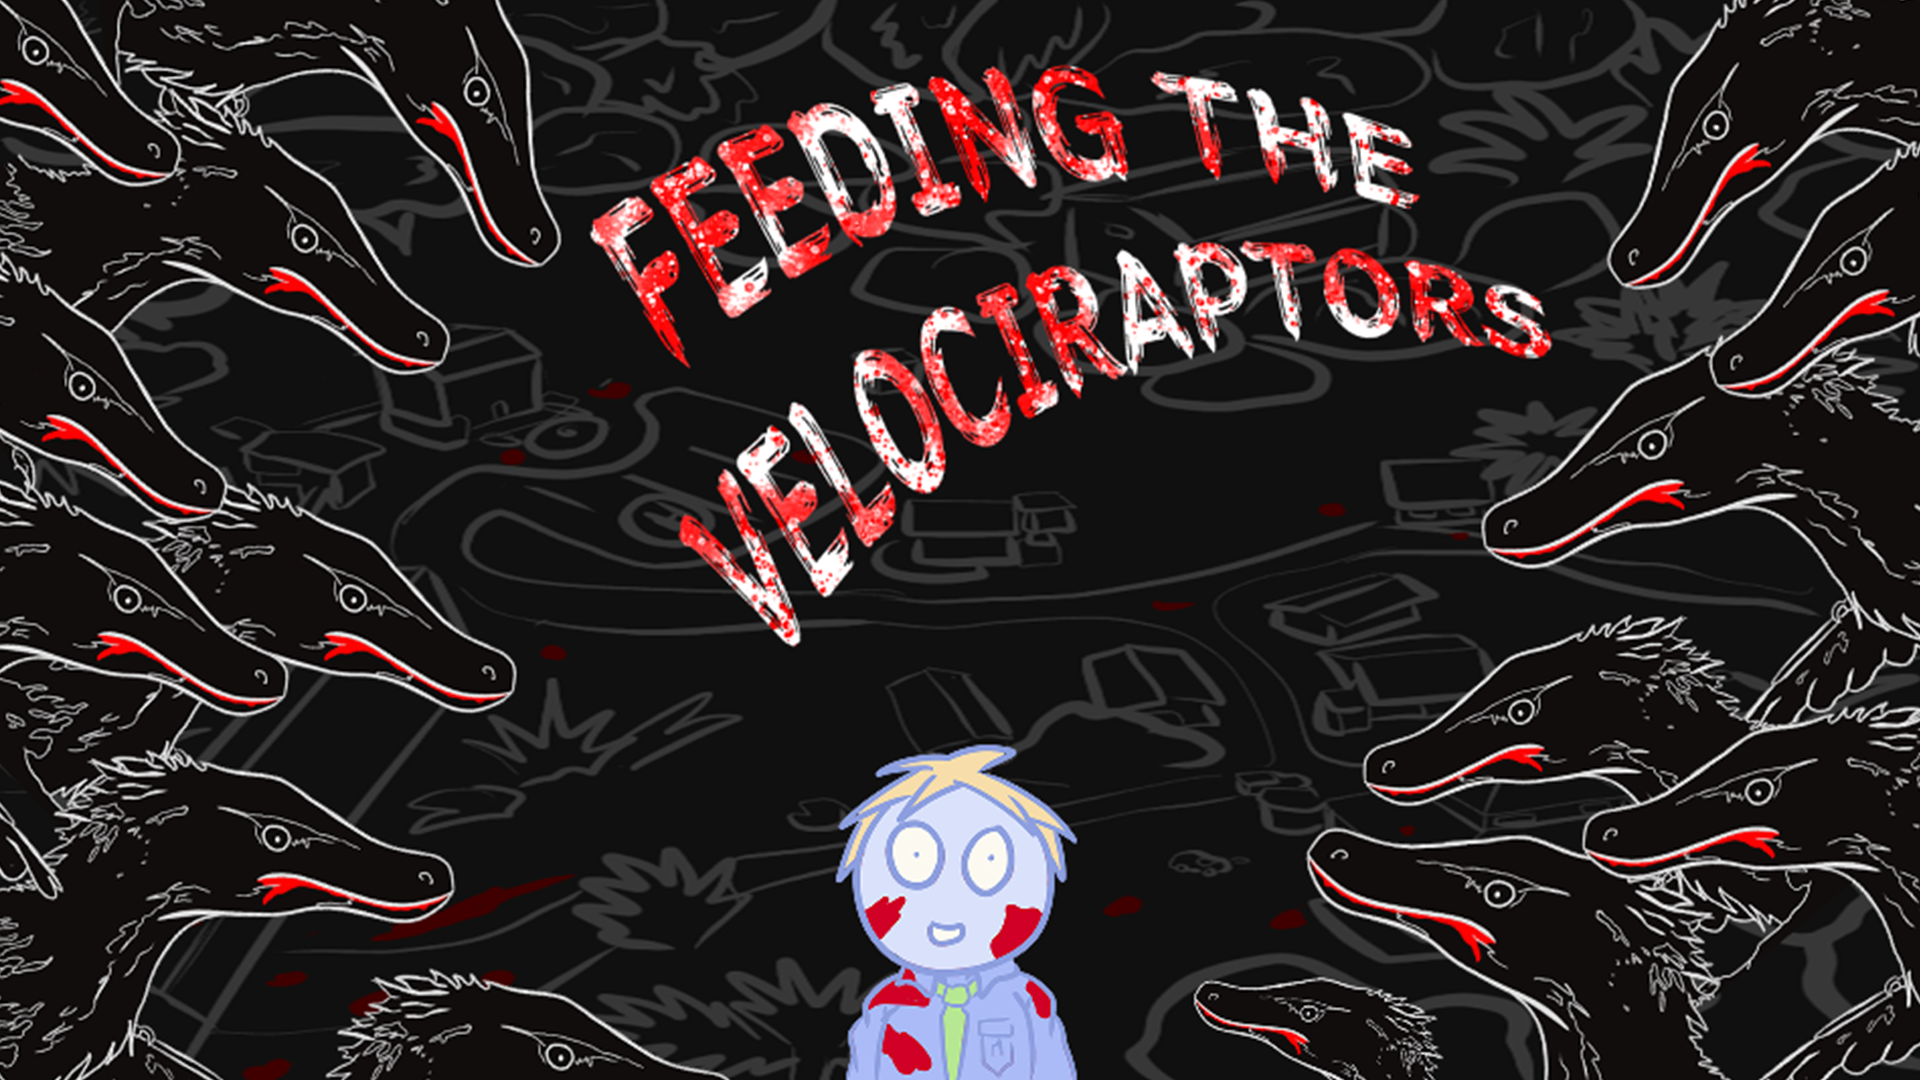
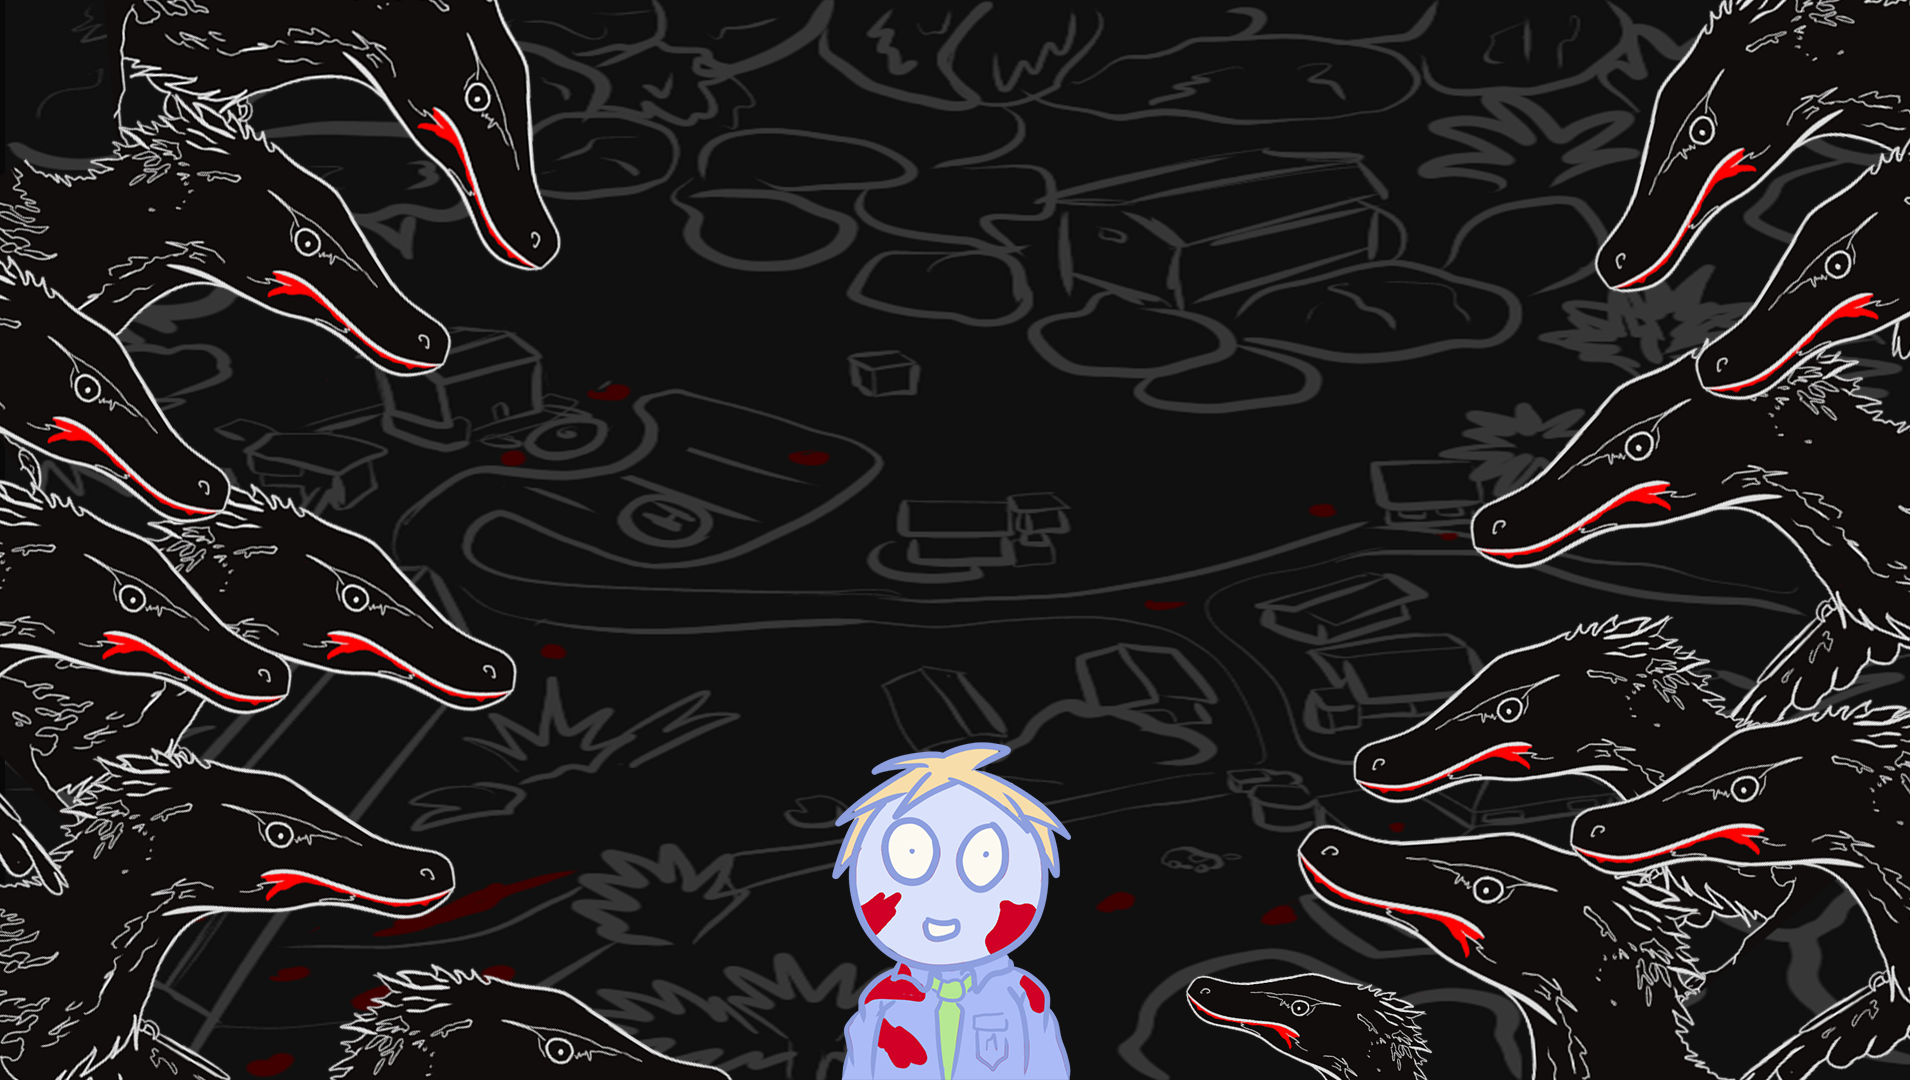
contact stuff

diff --git a/index.html b/index.html
@@ -974,14 +974,11 @@
             <h2>About workHate Inc</h2>
 
             <p>
-                Replace this with a short biography of yourself or
-                workHate Inc.
+                workHate Inc - Not an actual coporation, it's just me. I'm a solo indie dev that made this game all by my lonesome in a year or two. I took ren'py and turned it into a point and click wandering engine, which very much waksn't what it was for.
             </p>
 
             <p>
-                This can include information about previous games,
-                your background, the studio and what you are currently
-                working on.
+                I previously made TO YOUR DOOM, which is on itch.io somewhere. Mostly i just like writing, drawing stuff and taking my son to see the world.
             </p>
 
         </section>
@@ -1001,19 +998,24 @@
             -->
 
             <blockquote>
-                "[Review quote goes here.]"
+                "A really fun puzzle/point & click/die & retry game.
+It can be very difficult to find the solutions at times, but they're not completely far-fetched either.
+The atmosphere is original and the character you play is really funny.
+If you're intrigued, go for it."
             </blockquote>
 
             <p>
-                — <a href="#">Publication Name</a>
+                — mtalacide (Steam Review)
             </p>
 
             <blockquote>
-                "[Another review quote goes here.]"
+                "It’s a fun and charming point-and-click with solutions that feel creative but not random or confusing. The writing has a cynical comedy to it that gives the game a lot of character, and the art style is fun and unique. The game is on the shorter side, but it has a variety of alternate endings to play through. I ended up trying to find as many as I could and that turned out to be a lot of fun in itself.
+
+Would recommend for people who like classic point-and-click puzzles and wry wit."
             </blockquote>
 
             <p>
-                — <a href="#">Publication Name</a>
+                — LK (Steam Review)
             </p>
 
         </section>
@@ -1040,8 +1042,8 @@
 
                 <p>
                     <strong>Email:</strong>
-                    <a href="mailto:YOUR_EMAIL@example.com">
-                        YOUR_EMAIL@example.com
+                    <a href="mailto:ftr@workhate.com">
+                        FTR@example.com
                     </a>
                 </p>
 
@@ -1058,18 +1060,14 @@
 
                 <p>
                     <strong>Website:</strong>
-                    <a href="#">
+                    <a href="workhate.com">
                         Your Website
                     </a>
                 </p>
 
                 <p>
                     <strong>Social:</strong>
-                    <a href="#">Bluesky</a>
-                    ·
-                    <a href="#">Twitter / X</a>
-                    ·
-                    <a href="#">YouTube</a>
+                    <a href="feedingtheraptors.bsky.social">Bluesky</a>
                 </p>
 
             </div>
